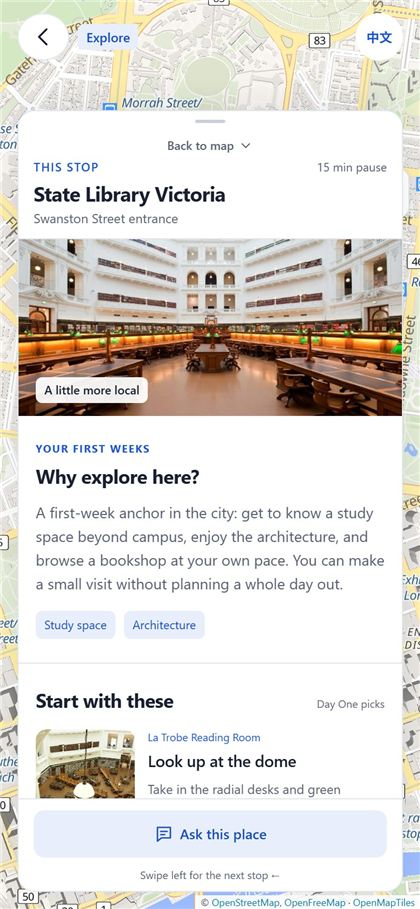
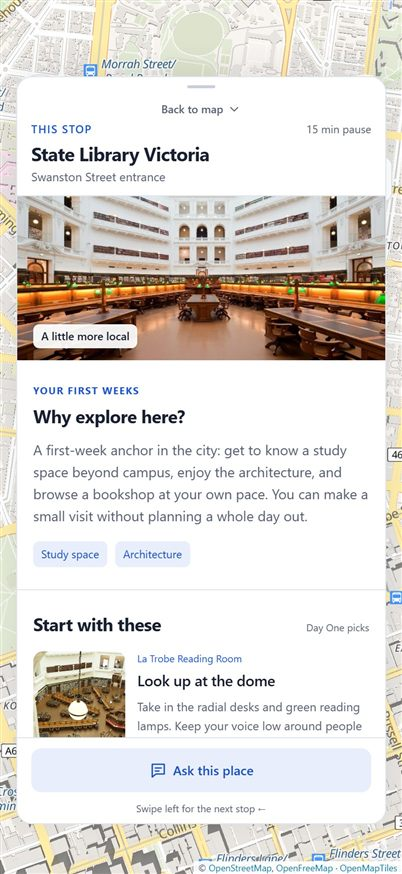
Hero: 14 varied screens, Home/Explore/AR in iPhone 17 Pro frames; anchor jumps land on the first click

diff --git a/src/components/HeroShowcase.tsx b/src/components/HeroShowcase.tsx
@@ -5,19 +5,22 @@ import { Lightbox } from './Lightbox'
 import { asset } from './ui'
 
 const shot = (n: string) => `assets/hero/${n}.jpg`
-const RATIO = 909 / 420 // screenshot height / width
+const RATIO = 874 / 402 // iPhone 17 Pro screen, height / width
 const TILT = -14
 
-/** Real screens captured from the final Day One prototype, laid out as a tilted wall (7 columns × 4 rows). */
-const pool = ['journey', 'place', 'summary', 'plan', 'route-studio', 'scenario', 'navigation', 'ask', 'home', 'ar']
+/**
+ * Real screens captured from the final Day One prototype (402×874), laid out as a tilted wall (7 columns × 4 rows).
+ * The featured screens are not in the pool, and walking the pool column by column keeps repeats at least three columns apart.
+ */
+const pool = ['journey', 'place', 'scenario', 'plan', 'ask', 'summary', 'journey-transport', 'compare', 'account', 'route-studio', 'scenario-intro', 'ar-parking', 'navigation', 'journey-campus']
 const COLS = 7
 const ROWS = 4
 
 /** Featured screens sit *inside* the wall at these slots, then lift out and line up. */
 const featured = [
   { key: 'home', name: 'Home', text: 'Your starting point: everyday tools, a suggested Short Trip and small local discoveries.', slot: [2, 1] },
-  { key: 'ar', name: 'AR Lens', text: 'Scan a myki reader to see what you can tap with, and how the two-hour fare works.', slot: [3, 1] },
-  { key: 'ask', name: 'Ask This Place', text: 'Ask about the place you are in, confirm where you are, and get help that fits it.', slot: [4, 2] },
+  { key: 'explore', name: 'Explore', text: 'Discover local places at your own pace, plan a short trip, or pick a route to try.', slot: [3, 1] },
+  { key: 'ar', name: 'AR Lens', text: 'Scan a myki reader to see what you can tap with, and how the two-hour fare works.', slot: [4, 2] },
 ] as const
 
 type Size = { w: number; h: number }
@@ -230,7 +233,7 @@ function Stage({ p, onOpen }: { p: MotionValue<number>; onOpen: (i: number) => v
                   return (
                     <motion.img
                       key={r}
-                      src={asset(shot(pool[(c * 3 + r * 5) % pool.length]))}
+                      src={asset(shot(pool[(c * 4 + r) % pool.length]))}
                       alt=""
                       decoding="async"
                       className="absolute max-w-none rounded-[18px] border border-line bg-white shadow-[0_10px_24px_-16px_rgba(14,20,34,0.45)]"
@@ -253,7 +256,7 @@ function Stage({ p, onOpen }: { p: MotionValue<number>; onOpen: (i: number) => v
             className="pointer-events-none absolute left-0 right-0 z-[4] text-center font-mono text-[12px] uppercase tracking-[0.14em] text-ink-2"
             style={{ top: L.capY, opacity: capO }}
           >
-            Final prototype · Home / AR Lens / Ask This Place
+            Final prototype · Home / Explore / AR Lens
           </motion.p>
         </>
       )}
@@ -287,25 +290,79 @@ function FeaturedCard({ f, i, p, L, onOpen }: { f: (typeof featured)[number]; i:
   const shadow = useTransform(() => {
     const l = lift.get()
     const z = bezel.get()
-    return `0 0 0 ${z * 6}px #0e1422, 0 ${10 + 26 * l}px ${24 + 34 * l}px -16px rgba(14,20,34,${0.45 + 0.15 * l})`
+    return `0 0 0 ${z * 5}px #0a0c12, 0 0 0 ${z * 7.5}px #2b3a55, 0 0 0 ${z * 8}px #4a5c80, 0 ${10 + 26 * l}px ${24 + 34 * l}px -16px rgba(14,20,34,${0.45 + 0.15 * l})`
   })
-  const radius = useTransform(bezel, [0, 1], [18, 24])
+  const radius = useTransform(bezel, [0, 1], [18, L.ew * 0.135])
   return (
     <motion.button
       type="button"
       onClick={onOpen}
       aria-label={`Open ${f.name} screen`}
-      className="group absolute z-[5] block overflow-hidden bg-white"
-      style={{ left, top, width, rotate, scale, x: '-50%', y: '-50%', boxShadow: shadow, borderRadius: radius }}
+      className="group absolute z-[5] block"
+      style={{ left, top, width, rotate, scale, x: '-50%', y: '-50%' }}
       initial={{ opacity: 0 }}
       animate={{ opacity: 1 }}
       transition={{ duration: 0.7, delay: 0.3 + i * 0.08 }}
     >
-      <img src={asset(shot(f.key))} alt={`Day One ${f.name} screen`} className="block w-full" />
-      <span className="absolute right-2 top-2 grid h-7 w-7 place-items-center rounded-full bg-ink/70 text-white opacity-0 transition-opacity group-hover:opacity-100 group-focus-visible:opacity-100">
-        <Expand size={14} aria-hidden />
-      </span>
+      <motion.span aria-hidden className="absolute inset-0" style={{ opacity: bezel }}>
+        <SideButtons />
+      </motion.span>
+      <motion.span className="relative block overflow-hidden bg-white" style={{ boxShadow: shadow, borderRadius: radius }}>
+        <img src={asset(shot(f.key))} alt={`Day One ${f.name} screen`} className="block w-full" />
+        <motion.span aria-hidden className="absolute inset-x-0 top-0 block" style={{ opacity: bezel }}>
+          <StatusBar light={f.key === 'ar'} />
+        </motion.span>
+        <span className="absolute right-3 top-[9%] grid h-7 w-7 place-items-center rounded-full bg-ink/70 text-white opacity-0 transition-opacity group-hover:opacity-100 group-focus-visible:opacity-100">
+          <Expand size={14} aria-hidden />
+        </span>
+      </motion.span>
     </motion.button>
+  )
+}
+
+/** iPhone 17 Pro status area: time, Dynamic Island, signal, Wi-Fi, battery (drawn at 402pt wide). */
+function StatusBar({ light }: { light: boolean }) {
+  const c = light ? '#fff' : '#0e1422'
+  return (
+    <svg viewBox="0 0 402 62" className="block w-full" fill={c}>
+      <text x="62" y="39" textAnchor="middle" fontSize="17" fontWeight="600" fontFamily="Inter, system-ui, sans-serif">
+        9:41
+      </text>
+      <rect x="138" y="11" width="126" height="37" rx="18.5" fill="#000" />
+      <circle cx="245" cy="29.5" r="6" fill="#10131c" />
+      <rect x="288" y="29" width="3.4" height="5" rx="1" />
+      <rect x="293" y="26.5" width="3.4" height="7.5" rx="1" />
+      <rect x="298" y="24" width="3.4" height="10" rx="1" />
+      <rect x="303" y="22" width="3.4" height="12" rx="1" />
+      <path d="M319 24.4a10 10 0 0 1 14 0l-1.7 1.8a7.6 7.6 0 0 0-10.6 0Zm3.3 3.5a5.4 5.4 0 0 1 7.4 0l-1.7 1.8a3 3 0 0 0-4 0Zm3.7 2.2 1.9 2-1.9 2-1.9-2Z" />
+      <rect x="341.5" y="22.5" width="24" height="12" rx="3.6" fill="none" stroke={c} strokeOpacity="0.45" />
+      <rect x="343.3" y="24.3" width="20.4" height="8.4" rx="2.2" />
+      <path d="M367 26.5v4c.9-.3 1.5-1.1 1.5-2s-.6-1.7-1.5-2Z" fillOpacity="0.5" />
+    </svg>
+  )
+}
+
+/** Action button and volume keys on the left; side button and Camera Control on the right. */
+function SideButtons() {
+  const left = [
+    ['17%', '3.6%'],
+    ['24%', '6.6%'],
+    ['32.5%', '6.6%'],
+  ]
+  const right = [
+    ['27%', '10%'],
+    ['61%', '7%'],
+  ]
+  const cls = 'absolute w-[3px] rounded-[1px] bg-[#34466a]'
+  return (
+    <>
+      {left.map(([top, height]) => (
+        <span key={top} className={`${cls} -left-[10.5px]`} style={{ top, height }} />
+      ))}
+      {right.map(([top, height]) => (
+        <span key={top} className={`${cls} -right-[10.5px]`} style={{ top, height }} />
+      ))}
+    </>
   )
 }
 
@@ -314,13 +371,16 @@ function StaticRow({ onOpen }: { onOpen: (i: number) => void }) {
   return (
     <div className="relative mt-10 overflow-hidden rounded-[12px] border border-line">
       <img aria-hidden src={asset('assets/hero/melbourne-map.jpg')} alt="" className="absolute inset-0 h-full w-full object-cover opacity-30" />
-      <div className="relative grid grid-cols-3 gap-3 p-4 sm:gap-6 sm:p-8">
+      <div className="relative grid grid-cols-3 gap-4 p-5 sm:gap-8 sm:p-10">
         {featured.map((f, i) => (
           <button key={f.key} type="button" onClick={() => onOpen(i)} aria-label={`Open ${f.name} screen`} className="group">
-            <span className="block overflow-hidden rounded-[14px] border-[4px] border-ink bg-white shadow-[0_18px_30px_-20px_rgba(14,20,34,0.6)] transition-transform group-hover:-translate-y-1 sm:rounded-[22px] sm:border-[6px]">
+            <span className="relative block overflow-hidden rounded-[16px] bg-white shadow-[0_0_0_3px_#0a0c12,0_0_0_5px_#2b3a55,0_18px_30px_-16px_rgba(14,20,34,0.6)] transition-transform group-hover:-translate-y-1 sm:rounded-[28px] sm:shadow-[0_0_0_5px_#0a0c12,0_0_0_7px_#2b3a55,0_18px_30px_-16px_rgba(14,20,34,0.6)]">
               <img src={asset(shot(f.key))} alt={`Day One ${f.name} screen`} className="block w-full" />
+              <span aria-hidden className="absolute inset-x-0 top-0 block">
+                <StatusBar light={f.key === 'ar'} />
+              </span>
             </span>
-            <span className="mt-2 block text-center font-mono text-[11px] uppercase tracking-[0.1em] text-ink-2">{f.name}</span>
+            <span className="mt-3 block text-center font-mono text-[11px] uppercase tracking-[0.1em] text-ink-2">{f.name}</span>
           </button>
         ))}
       </div>

diff --git a/src/hooks/useAnchorScroll.ts b/src/hooks/useAnchorScroll.ts
@@ -1,0 +1,69 @@
+import { useEffect } from 'react'
+import { animate } from 'motion/react'
+
+const HEADER = 80 // matches html { scroll-padding-top }
+
+function targetY(el: HTMLElement) {
+  const margin = parseFloat(getComputedStyle(el).scrollMarginTop) || 0
+  const max = document.documentElement.scrollHeight - window.innerHeight
+  return Math.min(max, Math.max(0, el.getBoundingClientRect().top + window.scrollY - HEADER - margin))
+}
+
+/**
+ * Drives in-page anchor jumps. The browser's native smooth scroll is cancelled by layout changes along the way
+ * (the hero's intro expands as it is passed), which left a click stopped inside the hero and needing a second click.
+ */
+export function useAnchorScroll() {
+  useEffect(() => {
+    let stop: (() => void) | null = null
+
+    const onClick = (e: MouseEvent) => {
+      if (e.defaultPrevented || e.button !== 0 || e.metaKey || e.ctrlKey || e.shiftKey) return
+      const a = (e.target as Element | null)?.closest?.('a[href^="#"]') as HTMLAnchorElement | null
+      const hash = a?.getAttribute('href')
+      if (!hash || hash === '#' || hash === '#main') return
+      const el = document.getElementById(hash.slice(1))
+      if (!el) return
+      e.preventDefault()
+      stop?.()
+      history.pushState(null, '', hash)
+
+      const jump = (y: number) => window.scrollTo({ top: y, behavior: 'instant' })
+      if (window.matchMedia('(prefers-reduced-motion: reduce)').matches) {
+        jump(targetY(el))
+        return
+      }
+      const from = window.scrollY
+      const distance = Math.abs(targetY(el) - from)
+      const controls = animate(0, 1, {
+        duration: Math.min(1.1, 0.45 + distance / 12000),
+        ease: [0.45, 0, 0.15, 1],
+        // Re-measure every frame so anything that changes height on the way cannot throw the landing off.
+        onUpdate: (t) => jump(from + (targetY(el) - from) * t),
+      })
+      const cancel = () => {
+        controls.stop()
+        removeEventListener('wheel', cancel)
+        removeEventListener('touchstart', cancel)
+        stop = null
+      }
+      stop = cancel
+      addEventListener('wheel', cancel, { passive: true })
+      addEventListener('touchstart', cancel, { passive: true })
+      controls.then(() => {
+        removeEventListener('wheel', cancel)
+        removeEventListener('touchstart', cancel)
+        stop = null
+        if (e.detail === 0) {
+          // keyboard activation: move focus too, as a native anchor would
+          el.setAttribute('tabindex', '-1')
+          el.style.outline = 'none'
+          el.focus({ preventScroll: true })
+        }
+      })
+    }
+
+    document.addEventListener('click', onClick)
+    return () => document.removeEventListener('click', onClick)
+  }, [])
+}

diff --git a/src/App.tsx b/src/App.tsx
@@ -1,4 +1,5 @@
 import { MotionConfig } from 'motion/react'
+import { useAnchorScroll } from './hooks/useAnchorScroll'
 import { Nav } from './components/Nav'
 import { Overview, ReportMap } from './sections/Overview'
 import { PartDivider } from './components/PartDivider'
@@ -17,6 +18,7 @@ import { Appendix } from './sections/Appendix'
 import { Footer } from './sections/Footer'
 
 export default function App() {
+  useAnchorScroll()
   return (
     <MotionConfig reducedMotion="user">
       <Nav />

diff --git a/PROJECT_STATUS.md b/PROJECT_STATUS.md
@@ -65,3 +65,5 @@ See `CONTENT_CHECKLIST.md` for the items the team still needs to supply or confi
 - Project Overview: the Prototype stage auto-plays Low-fi → Wireframe → Initial hi-fi for three features; the Evaluate stage auto-wipes each tested screen into its refined version and rotates through all six pairs (both pause on hover, dots to pick)
 - 6.1 explorer restyled: centred stage tabs with a sliding bar; feature row as plain text (active grows, underline glides); round prev/next arrows; screens slide in from the direction of travel; no counts or capsules
 - Hero rebuilt after the team's Day-One-Website reference: intro on the left (~30%: university/subject line, title, tagline, research question, video); right side a tilted wall of drifting real screens from the final prototype (captured 2026-11-03 from the live build); on desktop the hero pins while scrolling, the wall fades into a Melbourne map and Home / AR Lens / Ask This Place straighten into a row; featured screens open a viewer. Phones and reduced motion get a static stacked version. Map image from the reference archive.
+- Hero screens recaptured from the live prototype at iPhone 17 Pro size (402×874, 2026-11-04): 14 different screens on the wall, no neighbouring repeats; featured row is Home / Explore / AR Lens in an iPhone 17 Pro-style frame (status bar and frame are drawn, not part of the app)
+- In-page anchor links use a scripted scroll (useAnchorScroll) that re-measures every frame, so the hero's expanding intro cannot interrupt a jump
